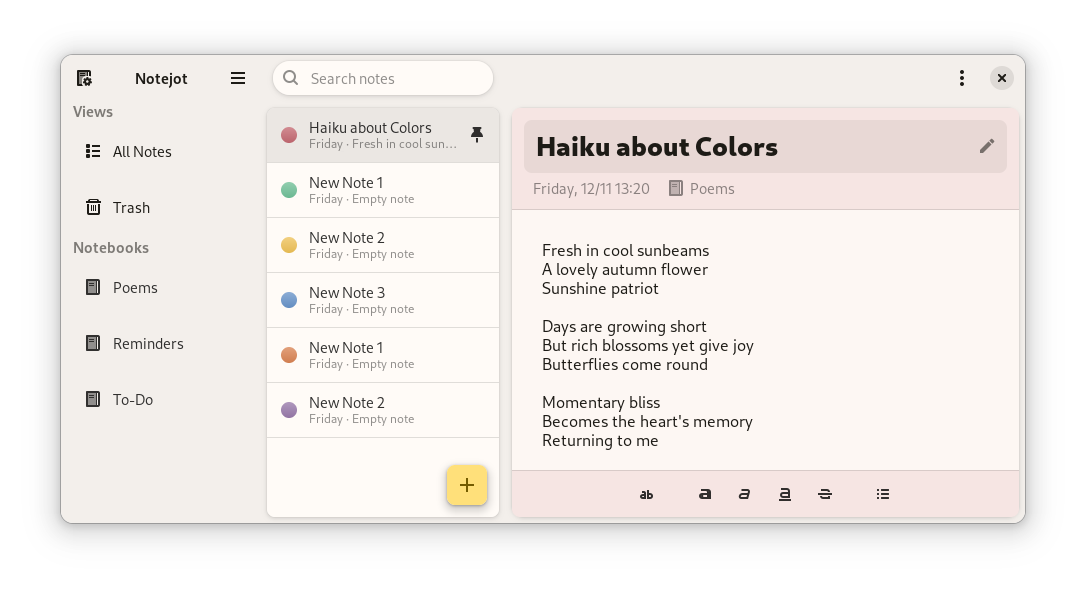
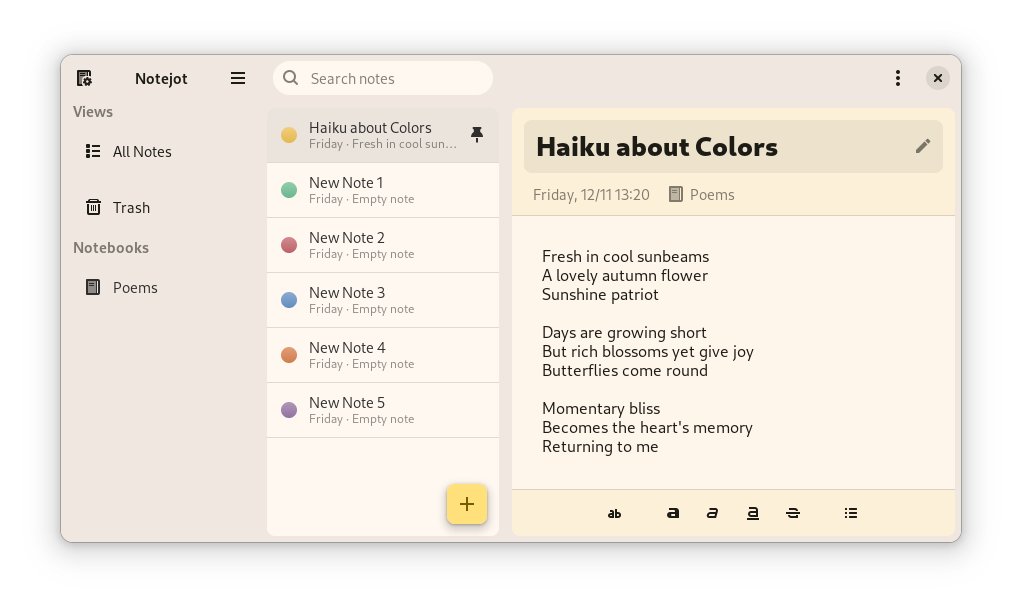
* - revert shadowy UI, use a more yellow color for bg

diff --git a/data/style.css b/data/style.css
@@ -1,10 +1,10 @@
 @define-color accent_color #745c00;
 @define-color accent_bg_color #ffe07a;
 @define-color accent_fg_color #745c00;
-@define-color window_bg_color #f3efeb;
-@define-color view_bg_color #fffbf7;
-@define-color headerbar_bg_color #f3efeb;
-@define-color popover_bg_color #fffbf7;
+@define-color window_bg_color #f0e8e0;
+@define-color view_bg_color #fff8f0;
+@define-color headerbar_bg_color #f0e8e0;
+@define-color popover_bg_color #fff8f0;
 @define-color popover_fg_color #1d1b16;
 @define-color window_fg_color #1d1b16;
 @define-color view_fg_color #1d1b16;
@@ -37,6 +37,10 @@
   box-shadow: 0 2px 3px 0 alpha(black, 0.3),
               0 6px 10px 4px alpha(black, 0.15);
 }
+.list-action-button:active {
+  box-shadow: 0 1px 3px 0 alpha(black, 0.3),
+              0 4px 8px 3px alpha(black, 0.15);
+}
 .accent-button {
   background: @accent_bg_color;
   color: @accent_fg_color;
@@ -46,16 +50,12 @@
 }
 .accent-button:active {
   background: shade(@accent_bg_color, 0.95);
-  box-shadow: 0 1px 3px 0 alpha(black, 0.3),
-              0 4px 8px 3px alpha(black, 0.15);
 }
 .list-action-button.destructive-action {
   background: #ba1b1b;
 }
 .list-action-button.destructive-action:active {
   background: shade(#ba1b1b, 1.1);
-  box-shadow: 0 1px 3px 0 alpha(black, 0.3),
-              0 4px 8px 3px alpha(black, 0.15);
 }
 
 .content-view {
@@ -63,11 +63,9 @@
 	margin: 6px;
 }
 
-.card,
 .content {
   background: @view_bg_color;
-  box-shadow: 0 0 1px 0 rgba(0,0,0,0.3),
-              0 0 4px 1px rgba(0,0,0,0.15);
+  box-shadow: none;
 }
 
 .content-sidebar-notebooks {
